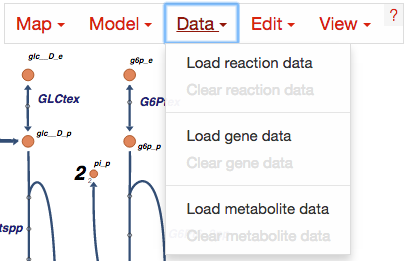
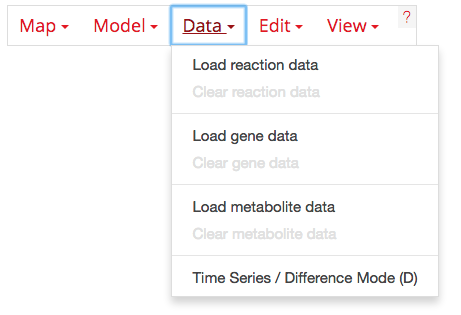
requested changes for pull request

diff --git a/src/Builder.js b/src/Builder.js
@@ -1,3 +1,4 @@
+/* eslint-disable indent,camelcase,no-trailing-spaces */
 /**
  * For documentation of this class, see docs/javascript_api.rst
  */
@@ -26,10 +27,8 @@ import _ from 'underscore'
 import { select as d3_select } from 'd3-selection'
 import { selection as d3_selection } from 'd3-selection'
 import { json as d3_json } from 'd3-request'
-import TimeSeriesBar from './TimeSeriesBar'
 import TimeSeriesBarPreact from './TimeSeriesBarPreact'
-
-const d3 = require('d3')
+import {d3 as d3 } from 'd3'
 
 // Include custom font set for icons
 import '../icons/css/fontello.css'
@@ -74,8 +73,8 @@ class Builder {
     this.search_bar_div = null
     this.time_series_bar_div = null
     this.searchBarRef = null
-    this.reference = 0;
-    this.target = 0;
+    this.reference = 0
+    this.target = 0
 
     // apply this object as data for the selection
     this.selection.datum(this)
@@ -589,8 +588,6 @@ class Builder {
     )
   }
 
-
-
     renderButtonPanel (mode) {
     const buttonPanelDivNode = this.button_div.node()
     preact.render(
@@ -816,7 +813,7 @@ class Builder {
 
     } else if (_.isObject(data) && !(_.isArray(data))) { // old data format or csv is [array of numbers]
 
-      this.metabolite_data_names = ["metabolite data set"]
+      this.metabolite_data_names = ['metabolite data set']
       this.options.metabolite_data = [data]
       this.type_of_data = 'metabolite'
       this.time_series_bar.openTab(this)
@@ -871,7 +868,7 @@ class Builder {
         met_data_object = data_styles.import_and_check(difference_metabolite_data, 'metabolite_data')
       } else {
         if (this.options.metabolite_data !== null) {
-          if(_.isArray(this.options.metabolite_data)){
+          if (_.isArray(this.options.metabolite_data)) {
 
             met_data_object = data_styles.import_and_check(this.options.metabolite_data[this.reference], 'metabolite_data')
           } else {
@@ -885,7 +882,7 @@ class Builder {
       }
 
       // calculates the scales with all the values in the data sets
-      if(update_stats && this.options.metabolite_data !== null){
+      if (update_stats && this.options.metabolite_data !== null) {
         var metabolite_for_data_scales = []
 
         for (var i in this.options.metabolite_data) {
@@ -906,14 +903,14 @@ class Builder {
 
       if (this.options.reaction_data !== null && update_map && this.map !== null) {
 
-        if(this.difference_mode){
+        if (this.difference_mode) {
 
           var difference_reaction_data = [this.options.reaction_data[this.reference], this.options.reaction_data[this.target]]
           reaction_data_object = data_styles.import_and_check(difference_reaction_data,
             'reaction_data')
 
         } else {
-          if(_.isArray(this.options.reaction_data)){
+          if (_.isArray(this.options.reaction_data)) {
 
             reaction_data_object = data_styles.import_and_check(this.options.reaction_data[this.reference], 'reaction_data')
           } else {
@@ -922,7 +919,7 @@ class Builder {
           }
         }
 
-        if(update_stats && this.options.reaction_data !== null){
+        if (update_stats && this.options.reaction_data !== null) {
           var reaction_for_data_scales = []
 
           for (var i in this.options.reaction_data) {
@@ -938,13 +935,13 @@ class Builder {
         // gene data
       } else if (this.options.gene_data !== null && update_map && this.map !== null) {
 
-        if(this.difference_mode){
+        if (this.difference_mode) {
           var difference_gene_data = [this.options.gene_data[this.reference], this.options.gene_data[this.target]]
           gene_data_object = make_gene_data_object(difference_gene_data,
             this.cobra_model, this.map)
         } else {
 
-          if(_.isArray(this.options.gene_data)){
+          if (_.isArray(this.options.gene_data)) {
             gene_data_object = make_gene_data_object(this.options.gene_data[this.reference],
               this.cobra_model, this.map)
 
@@ -955,7 +952,7 @@ class Builder {
           }
         }
 
-        if(update_stats && this.options.gene_data !== null){
+        if (update_stats && this.options.gene_data !== null) {
           var genes_for_data_scales = []
 
           for (var i in this.options.gene_data) {

diff --git a/src/Draw.js b/src/Draw.js
@@ -33,7 +33,7 @@ var data_styles = require('./data_styles')
 var CallbackManager = require('./CallbackManager')
 var d3_format = require('d3-format').format
 var d3_select = require('d3-selection').select
-var d3 = require('d3')
+var d3_ease = require('d3-ease')
 var _ = require('underscore')
 
 var Draw = utils.make_class()
@@ -413,7 +413,7 @@ function update_segment (update_selection, scale, cobra_model,
       })
       .transition()
       .duration(transition_duration)
-      .ease(d3.easeLinear)
+      .ease(d3_ease.easeLinear)
       .style('stroke', function(d) {
         var reaction_id = this.parentNode.parentNode.__data__.bigg_id
         var show_missing = (highlight_missing &&
@@ -434,7 +434,7 @@ function update_segment (update_selection, scale, cobra_model,
       .selectAll('.segment')
       .transition()
       .duration(transition_duration)
-      .ease(d3.easeLinear)
+      .ease(d3_ease.easeLinear)
       .style('stroke-width', function(d) {
         if (should_size) {
           var f = d.data
@@ -829,7 +829,7 @@ function update_node (update_selection, scale, has_data_on_nodes,
       .select('.node-circle')
       .transition()
       .duration(transition_duration)
-      .ease(d3.easeLinear)
+      .ease(d3_ease.easeLinear)
       .attr('r', function(d) {
         if (d.node_type === 'metabolite') {
           var should_scale = (has_data_on_nodes &&

diff --git a/src/TimeSeriesBarPreact.js b/src/TimeSeriesBarPreact.js
@@ -1,3 +1,4 @@
+/* eslint-disable camelcase */
 /** TimeSeriesBar */
 
 /** @jsx h */
@@ -46,7 +47,6 @@ class TimeSeriesBar extends Component {
 
     let currentDataSet = this.get_current_data_set(builder)
 
-    //let duration = 2000
     if (currentDataSet !== null) {
       // update display
       let current = 0

diff --git a/docs/getting_started.rst b/docs/getting_started.rst
@@ -163,7 +163,7 @@ Loading reaction, gene, and metabolite data
 
 Datasets can be loaded as CSV files or JSON files, using the Data Menu.
 
-.. image:: _static/data_menu_02.png
+.. image:: _static/data_menu.png
 
 In Escher, reaction and gene datasets are visualized by changing the color,
 thickness, and labels of reaction arrows. Metabolite datasets are visualized by
